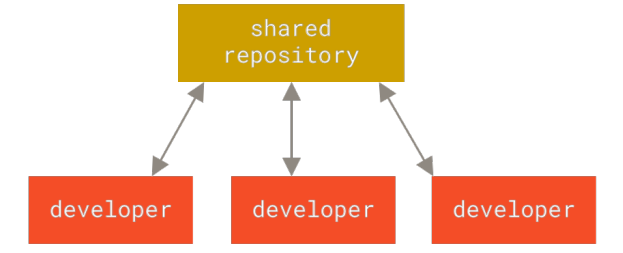
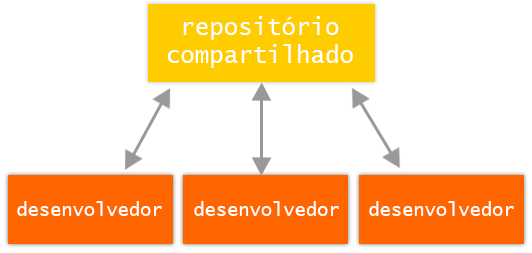
Update 29/05/2023 18:01

diff --git a/index.html b/index.html
@@ -233,6 +233,7 @@ Jon Freed Sean Jacobs
   </strong>chapter will be about getting started with Git. We will begin by explaining some background  on version control tools, then move on to how to get Git running on your system and finally how to  get it set up to start working with. At the end of this chapter you should understand why Git is  around, why you should use it and you should be all set up to do so. </p>
 -->
   
+  <h2>&nbsp;</h2>
   <h2>Sobre o Controle de Versão</h2>
   <p>
     O que é “controle de versão” e por que você deveria se importar? O controle de versão é um sistema que registra alterações em um arquivo ou conjunto de arquivos ao longo do tempo para que você possa recuperar versões específicas posteriormente. Para os exemplos deste livro, você usará o código-fonte do software como os arquivos cuja versão está sendo controlada, embora, na realidade, você possa fazer isso com praticamente qualquer tipo de arquivo em um computador. Se você é um designer gráfico ou web e deseja manter todas as versões de uma imagem ou layout (o que você certamente deseja), um Sistema de Controle de Versão (VCS) é uma coisa muito sábia para usar. Ele permite que você reverta os arquivos selecionados para um estado anterior, reverta todo o projeto para um estado anterior, compare as alterações ao longo do tempo, veja quem modificou pela última vez algo que pode estar causando um problema, quem introduziu um problema e quando e muito mais. Usar um VCS geralmente também significa que, se você estragar tudo ou perder arquivos, poderá recuperá-los facilmente. Além disso, você obtém tudo isso com muito pouca sobrecarga.
@@ -244,6 +245,7 @@ Jon Freed Sean Jacobs
     </strong>What is “version control”, and why should you care? Version control is a system that records  changes to a file or set of files over time so that you can recall specific versions later. For the  examples in this book, you will use software source code as the files being version controlled,  though in reality you can do this with nearly any type of file on a computer.  If you are a graphic or web designer and want to keep every version of an image or layout (which  you would most certainly want to), a Version Control System (VCS) is a very wise thing to use. It  allows you to revert selected files back to a previous state, revert the entire project back to a  previous state, compare changes over time, see who last modified something that might be causing  a problem, who introduced an issue and when, and more. Using a VCS also generally means that if  you screw things up or lose files, you can easily recover. In addition, you get all this for very little  overhead.</p>
 -->
 
+  <h2>&nbsp;</h2>
   <h2>Sistemas de Controle de Versão Local</h2>
   <p>
     O método de controle de versão escolhido por muitas pessoas é copiar os arquivos para outro diretório (talvez um diretório com carimbo de data/hora, se forem espertos). Essa abordagem é muito comum porque é muito simples, mas também é incrivelmente propensa a erros. É fácil esquecer em qual diretório você está e acidentalmente gravar no arquivo errado ou copiar arquivos que não pretendia. Para lidar com esse problema, há muito tempo os programadores desenvolveram VCSs locais que tinham um banco de dados simples que mantinha todas as alterações nos arquivos sob controle de revisão.
@@ -269,6 +271,7 @@ Jon Freed Sean Jacobs
   <p class="style1">One of the most popular VCS tools was a system called RCS, which is still distributed with many  computers today. RCS works by keeping patch sets (that is, the differences between files) in a special  format on disk; it can then re-create what any file looked like at any point in time by adding up all  the patches.  </p>
 -->
 
+  <h2>&nbsp;</h2>
   <h2>Sistemas de Controle de Versão Centralizado</h2>
   <p>
     O próximo grande problema que as pessoas encontram é que precisam colaborar com desenvolvedores em outros sistemas. Para lidar com esse problema,
@@ -309,6 +312,7 @@ Jon Freed Sean Jacobs
   <p class="style1">However, this setup also has some serious downsides. The most obvious is the single point of failure  that the centralized server represents. If that server goes down for an hour, then during that hour  nobody can collaborate at all or save versioned changes to anything they’re working on. If the hard  disk the central database is on becomes corrupted, and proper backups haven’t been kept, you lose  absolutely everything — the entire history of the project except whatever single snapshots people  happen to have on their local machines. Local VCSs suffer from this same problem — whenever you  have the entire history of the project in a single place, you risk losing everything.  </p>
 -->
 
+  <h2>&nbsp;</h2>
   <h2>Sistemas de Controle de Versão Distribuída</h2>
   <p>
     É aqui que entram os Sistemas de Controle de Versão Distribuída (DVCSs). Em um DVCS (como Git, Mercurial, Bazaar ou Darcs), os clientes não verificam apenas o instantâneo mais recente dos arquivos; em vez disso, eles espelham totalmente o repositório, incluindo seu histórico completo. Portanto, se algum servidor morrer e esses sistemas estiverem colaborando por meio desse servidor, qualquer um dos repositórios do cliente poderá ser copiado de volta para o servidor para restaurá-lo. Cada clone é realmente um backup completo de todos os dados.
@@ -320,17 +324,24 @@ Jon Freed Sean Jacobs
   <p class="style1">This is where Distributed Version Control Systems (DVCSs) step in. In a DVCS (such as Git, Mercurial,  Bazaar or Darcs), clients don’t just check out the latest snapshot of the files; rather, they fully  mirror the repository, including its full history. Thus, if any server dies, and these systems were  collaborating via that server, any of the client repositories can be copied back up to the server to  restore it. Every clone is really a full backup of all the data</p>
 -->
   <figure class="figure">
-    <img src="images/image_2.png" class="figure-img img-fluid rounded" alt="...">
     <figcaption class="figure-caption">...</figcaption>
   </figure>
 
   <p><img src="images/image_3.png" width="586" height="702"></p>
   <p>Furthermore, many of these systems deal pretty well with having several remote repositories they  can work with, so you can collaborate with different groups of people in different ways  simultaneously within the same project. This allows you to set up several types of workflows that  aren’t possible in centralized systems, such as hierarchical models.</p>
+  <p>Além disso, muitos desses sistemas lidam muito bem com vários repositórios remotos com os quais podem trabalhar, para que você possa colaborar com diferentes grupos de pessoas de maneiras diferentes simultaneamente no mesmo projeto. Isso permite configurar vários tipos de fluxos de trabalho que não são possíveis em sistemas centralizados, como modelos hierárquicos.</p>
 
   <p><strong>A Short History of Git  </strong></p>
+  <p>Uma Breve História do Git</p>
+  <p>&nbsp;</p>
   <p>As with many great things in life, Git began with a bit of creative destruction and fiery controversy.  </p>
+  <p>Assim como acontece com muitas coisas boas na vida, o Git começou com um pouco de destruição criativa e controvérsia inflamada.</p>
+  <p>&nbsp;</p>
   <p>The Linux kernel is an open source software project of fairly large scope. During the early years of  the Linux kernel maintenance (1991–2002), changes to the software were passed around as patches  and archived files. In 2002, the Linux kernel project began using a proprietary DVCS called  BitKeeper.  </p>
+  <p>The Linux kernel is an open source software project of fairly large scope. During the early years of  the Linux kernel maintenance (1991–2002), changes to the software were passed around as patches  and archived files. In 2002, the Linux kernel project began using a proprietary DVCS called  BitKeeper. </p>
+  <p>&nbsp;</p>
   <p>In 2005, the relationship between the community that developed the Linux kernel and the  commercial company that developed BitKeeper broke down, and the tool’s free-of-charge status  was revoked. This prompted the Linux development community (and in particular Linus Torvalds,  the creator of Linux) to develop their own tool based on some of the lessons they learned while  using BitKeeper. Some of the goals of the new system were as follows:  </p>
+  <p>Em 2005, o relacionamento entre a comunidade que desenvolveu o kernel do Linux e a empresa comercial que desenvolveu o BitKeeper foi rompido, e o status gratuito da ferramenta foi revogado. Isso levou a comunidade de desenvolvimento do Linux (e em particular Linus Torvalds, o criador do Linux) a desenvolver sua própria ferramenta com base em algumas das lições que aprenderam ao usar o BitKeeper. Alguns dos objetivos do novo sistema foram os seguintes:</p>
   <ul>
     <li>Speed</li>
     <li> Simple design</li>
@@ -338,19 +349,43 @@ Jon Freed Sean Jacobs
     <li> Fully distributed</li>
     <li> Able to handle large projects like the Linux kernel efficiently (speed and data size) </li>
   </ul>
+  <ul>
+    <li>Velocidade</li>
+    <li>Design simples</li>
+    <li> Forte suporte para desenvolvimento não linear (milhares de ramificações paralelas)</li>
+    <li>Totalmente distribuído</li>
+    <li> Capaz de lidar com grandes projetos como o kernel do Linux de forma eficiente (velocidade e tamanho dos dados)</li>
+  </ul>
+  <p>&nbsp;</p>
   <p>Since its birth in 2005, Git has evolved and matured to be easy to use and yet retain these initial  qualities. It’s amazingly fast, it’s very efficient with large projects, and it has an incredible  branching system for non-linear development (see Git Branching).</p>
+  <p>Desde seu nascimento em 2005, o Git evoluiu e amadureceu para ser fácil de usar e ainda manter essas qualidades iniciais. É incrivelmente rápido, muito eficiente em grandes projetos e possui um incrível sistema de ramificação para desenvolvimento não linear (consulte Git Branching).</p>
   <p><strong>What is Git?  </strong></p>
+  <p>O que é Git?</p>
   <p>So, what is Git in a nutshell? This is an important section to absorb, because if you understand what  Git is and the fundamentals of how it works, then using Git effectively will probably be much easier  for you. As you learn Git, try to clear your mind of the things you may know about other VCSs, such  as CVS, Subversion or Perforce — doing so will help you avoid subtle confusion when using the tool.  Even though Git’s user interface is fairly similar to these other VCSs, Git stores and thinks about  information in a very different way, and understanding these differences will help you avoid  becoming confused while using it.  </p>
+  <p>Então, o que é Git em poucas palavras? Esta é uma seção importante a ser absorvida, porque se você entender o que é o Git e os fundamentos de como ele funciona, usar o Git de forma eficaz provavelmente será muito mais fácil para você. À medida que você aprende Git, tente limpar sua mente das coisas que você pode saber sobre outros VCSs, como CVS, Subversion ou Perforce — isso o ajudará a evitar confusões sutis ao usar a ferramenta. Embora a interface do usuário do Git seja bastante semelhante a esses outros VCSs, o Git armazena e pensa sobre as informações de uma maneira muito diferente, e entender essas diferenças ajudará você a evitar confusão ao usá-lo.</p>
   <p><strong>Snapshots, Not Differences  </strong></p>
+  <p>Instantâneos, não diferenças</p>
   <p>The major difference between Git and any other VCS (Subversion and friends included) is the way  Git thinks about its data. Conceptually, most other systems store information as a list of file-based  changes. These other systems (CVS, Subversion, Perforce, Bazaar, and so on) think of the  information they store as a set of files and the changes made to each file over time (this is  commonly described as delta-based version control). </p>
+  <p>A principal diferença entre o Git e qualquer outro VCS (Subversion e amigos incluídos) é a maneira como o Git pensa sobre seus dados. Conceitualmente, a maioria dos outros sistemas armazena informações como uma lista de alterações baseadas em arquivo. Esses outros sistemas (CVS, Subversion, Perforce, Bazaar e assim por diante) pensam nas informações que armazenam como um conjunto de arquivos e as alterações feitas em cada arquivo ao longo do tempo (isso é comumente descrito como controle de versão baseado em delta).</p>
   <p><img src="images/image_4.png" width="614" height="246"></p>
   <p>Figure 4. Storing data as changes to a base version of each file  </p>
+  <p>Figura 4. Armazenando dados como alterações em uma versão base de cada arquivo</p>
+  <p>&nbsp;</p>
   <p>Git doesn’t think of or store its data this way. Instead, Git thinks of its data more like a series of  snapshots of a miniature filesystem. With Git, every time you commit, or save the state of your  project, Git basically takes a picture of what all your files look like at that moment and stores a  reference to that snapshot. To be efficient, if files have not changed, Git doesn’t store the file again,  just a link to the previous identical file it has already stored. Git thinks about its data more <strong>like a  stream of snapshots</strong>.</p>
+  <p>O Git não pensa ou armazena seus dados dessa maneira. Em vez disso, o Git pensa em seus dados mais como uma série de instantâneos de um sistema de arquivos em miniatura. Com o Git, toda vez que você confirma ou salva o estado do seu projeto, o Git basicamente tira uma foto da aparência de todos os seus arquivos naquele momento e armazena uma referência a esse instantâneo. Para ser eficiente, se os arquivos não foram alterados, o Git não armazena o arquivo novamente, apenas um link para o arquivo anterior idêntico que ele já armazenou. O Git pensa em seus dados mais como um fluxo de instantâneos.</p>
+  <p>&nbsp;</p>
   <p><img src="images/image_5.png" width="604" height="239"></p>
+  <p>&nbsp;</p>
   <p><strong>Nearly Every Operation Is Local  </strong></p>
+  <p>Quase todas as operações são locais</p>
   <p>Most operations in Git need only local files and resources to operate — generally no information is  needed from another computer on your network. If you’re used to a CVCS where most operations  have that network latency overhead, this aspect of Git will make you think that the gods of speed  have blessed Git with unworldly powers. Because you have the entire history of the project right  there on your local disk, most operations seem almost instantaneous. </p>
+  <p>A maioria das operações no Git precisa apenas de arquivos e recursos locais para operar — geralmente nenhuma informação é necessária de outro computador em sua rede. Se você está acostumado a um CVCS em que a maioria das operações tem sobrecarga de latência de rede, esse aspecto do Git fará você pensar que os deuses da velocidade abençoaram o Git com poderes sobrenaturais. Como você tem todo o histórico do projeto no disco local, a maioria das operações parece quase instantânea.</p>
+  <p>&nbsp;</p>
   <p>For example, to browse the history of the project, Git doesn’t need to go out to the server to get the  history and display it for you — it simply reads it directly from your local database. This means you  see the project history almost instantly. If you want to see the changes introduced between the  current version of a file and the file a month ago, Git can look up the file a month ago and do a local  difference calculation, instead of having to either ask a remote server to do it or pull an older  version of the file from the remote server to do it locally.  </p>
+  <p>Por exemplo, para navegar pelo histórico do projeto, o Git não precisa ir até o servidor para obter o histórico e exibi-lo para você — ele simplesmente o lê diretamente do seu banco de dados local. Isso significa que você vê o histórico do projeto quase instantaneamente. Se você quiser ver as alterações introduzidas entre a versão atual de um arquivo e o arquivo de um mês atrás, o Git pode procurar o arquivo de um mês atrás e fazer um cálculo de diferença local, em vez de pedir a um servidor remoto para fazer isso ou extraia uma versão mais antiga do arquivo do servidor remoto para fazer isso localmente.</p>
+  <p>&nbsp;</p>
   <p>This also means that there is very little you can’t do if you’re offline or off VPN. If you get on an  airplane or a train and want to do a little work, you can commit happily (to your local copy,  remember?) until you get to a network connection to upload. If you go home and can’t get your VPN  client working properly, you can still work. In many other systems, doing so is either impossible or  painful. In Perforce, for example, you can’t do much when you aren’t connected to the server; in  Subversion and CVS, you can edit files, but you can’t commit changes to your database (because  your database is offline). This may not seem like a huge deal, but you may be surprised what a big  difference it can make</p>
+  <p>Isso também significa que há muito pouco que você não pode fazer se estiver offline ou sem VPN. Se você entrar em um avião ou trem e quiser fazer um pouco de trabalho, pode se comprometer alegremente (para sua cópia local, lembra?) até chegar a uma conexão de rede para fazer o upload. Se você for para casa e não conseguir que seu cliente VPN funcione corretamente, ainda poderá trabalhar. Em muitos outros sistemas, fazer isso é impossível ou doloroso. No Perforce, por exemplo, você não pode fazer muito quando não está conectado ao servidor; no Subversion e no CVS, você pode editar arquivos, mas não pode fazer alterações em seu banco de dados (porque seu banco de dados está offline). Isso pode não parecer grande coisa, mas você pode se surpreender com a grande diferença que pode fazer</p>
   <p>Git Has Integrity  </p>
   <p>Everything in Git is checksummed before it is stored and is then referred to by that checksum. This  means it’s impossible to change the contents of any file or directory without Git knowing about it.  This functionality is built into Git at the lowest levels and is integral to its philosophy. You can’t lose  information in transit or get file corruption without Git being able to detect it.  The mechanism that Git uses for this checksumming is called a SHA-1 hash. This is a 40-character  string composed of hexadecimal characters (0–9 and a–f) and calculated based on the contents of a  file or directory structure in Git. A SHA-1 hash looks something like this:</p>
   <div>
